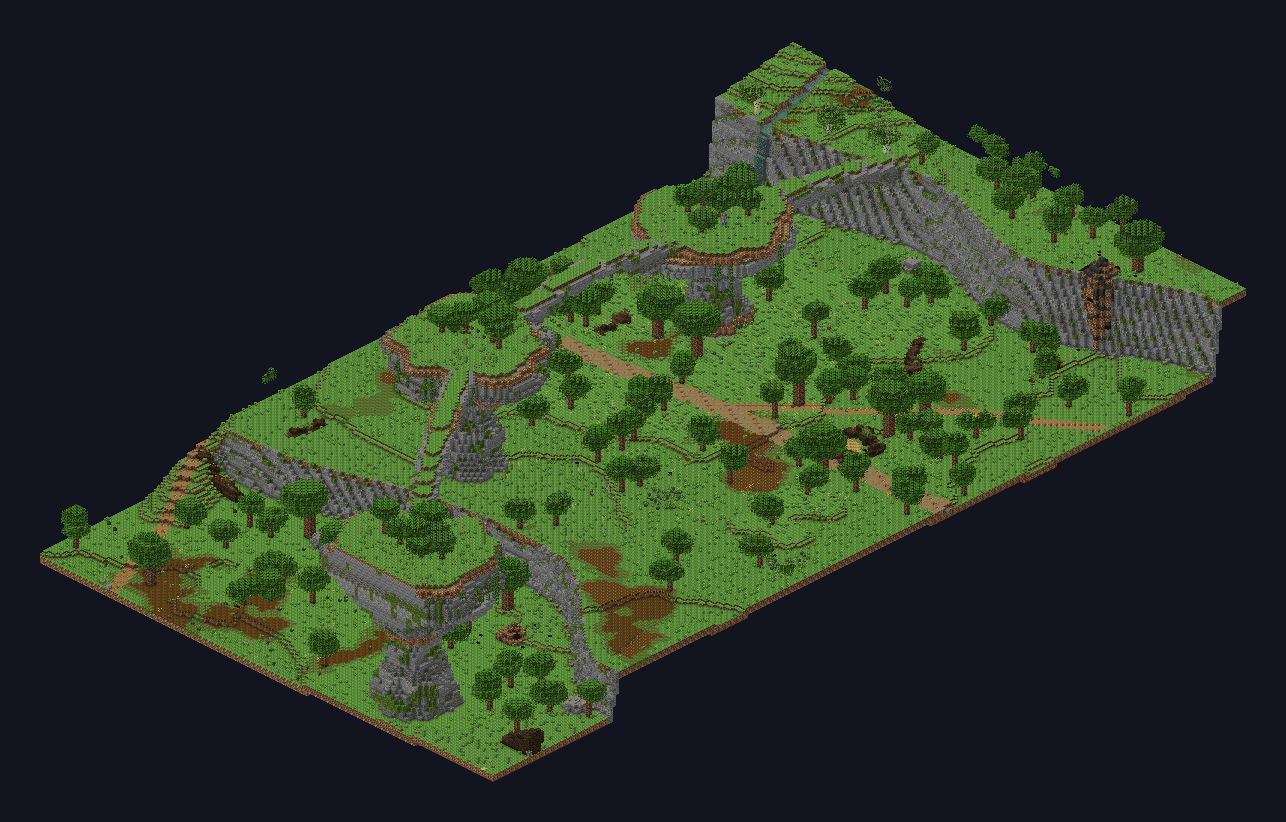
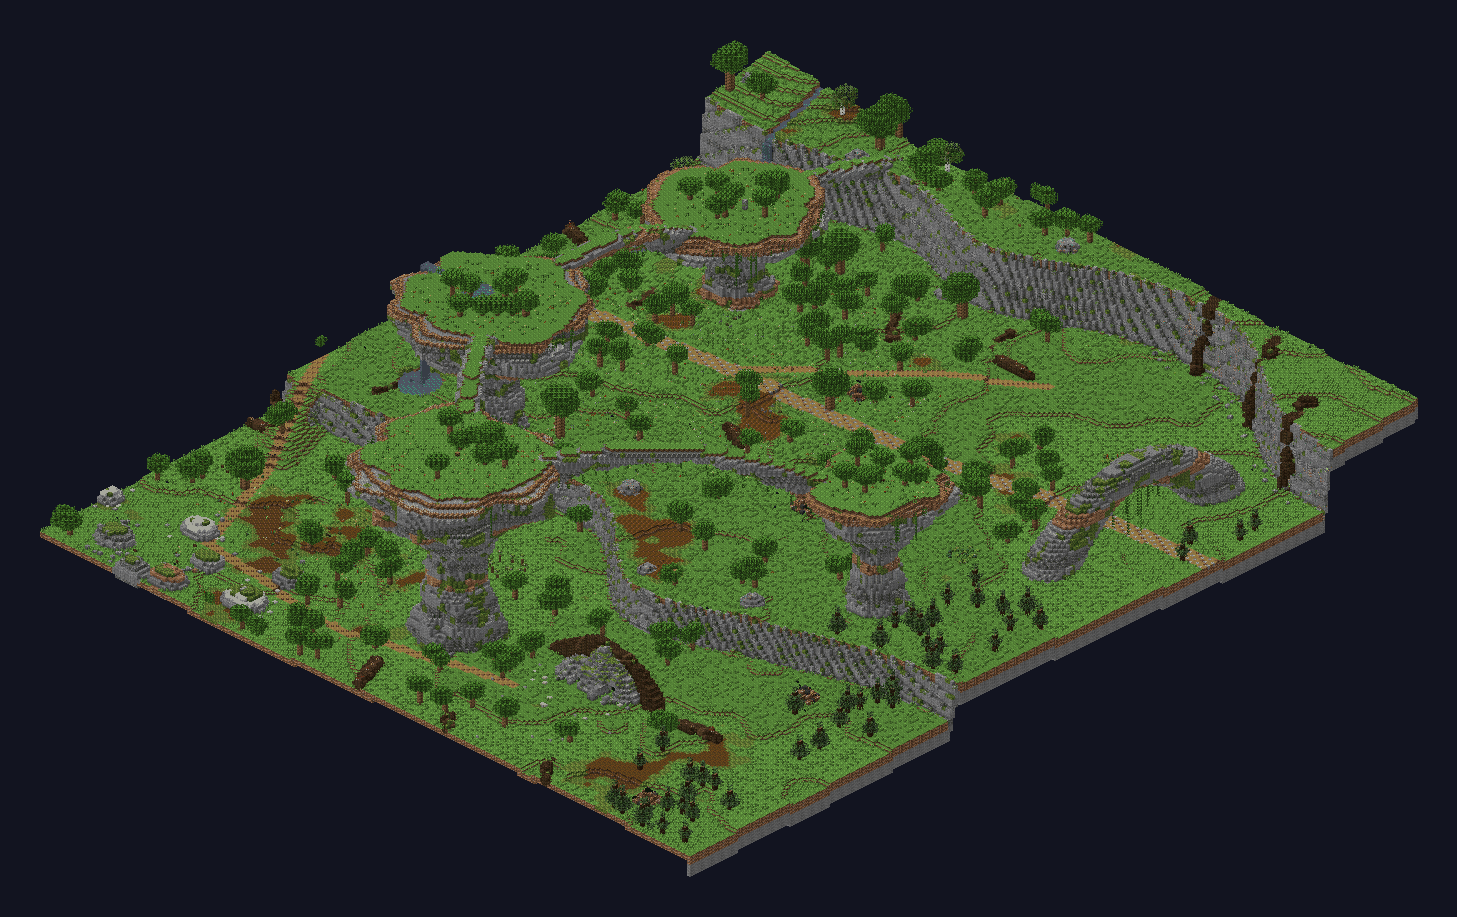
Proposals: field500 - giant Gaur-style pillars, pillar spring waterfall, stone arch gates, needles, tall grass

diff --git a/scripts/world_prototype/field500.py b/scripts/world_prototype/field500.py
@@ -700,34 +700,108 @@ def rock_bridge(p0, p1, rise=3, width=1.6):
                 if p not in w.b and p[1] > at(vx, vz): put(*p, "vine", shape="shut_s")
 
 
-# three chained pillars south of the high plateau; the first is reached by a bridge from the plateau's edge
+# giant pillars stepping up and away from the high plateau's edge; each top is reached by a rock bridge from the one before
 ex, ez = 300, int(B2[300]) - 7
 EDGE_Y = at(ex, ez)
-PILLARS = [(300, 226, EDGE_Y + 9, 9, 18, 3), (304, 312, EDGE_Y + 14, 9.5, 19, 5), (362, 388, EDGE_Y + 11, 10, 21, 1)]
+PILLARS = [(300, 222, EDGE_Y + 10, 11, 24, 3), (300, 320, EDGE_Y + 20, 12, 27, 5),
+           (366, 400, EDGE_Y + 28, 13, 28, 1), (452, 318, EDGE_Y + 22, 9, 20, 7)]
 for (px, pz, ty, rb, rt, sd) in PILLARS:
     mesa(px, pz, ty, rb, rt, sd)
-rock_bridge((ex, EDGE_Y, ez - 2), (PILLARS[0][0], PILLARS[0][2], PILLARS[0][1] - 15), rise=1)
-rock_bridge((PILLARS[0][0], PILLARS[0][2], PILLARS[0][1] + 14), (PILLARS[1][0], PILLARS[1][2], PILLARS[1][1] - 15), rise=4)
-rock_bridge((PILLARS[1][0] + 10, PILLARS[1][2], PILLARS[1][1] + 12), (PILLARS[2][0] - 12, PILLARS[2][2], PILLARS[2][1] - 13), rise=4)
+
+
+def link(a, b, rise):
+    (ax, az, ay, _, art, _), (bx, bz, by, _, brt, _) = a, b
+    d = math.hypot(bx - ax, bz - az); ux, uz = (bx - ax) / d, (bz - az) / d
+    rock_bridge((ax + ux * (art - 5), ay, az + uz * (art - 5)), (bx - ux * (brt - 5), by, bz - uz * (brt - 5)), rise=rise)
+
+
+rock_bridge((ex, EDGE_Y, ez - 2), (PILLARS[0][0], PILLARS[0][2], PILLARS[0][1] - PILLARS[0][4] + 5), rise=1)
+link(PILLARS[0], PILLARS[1], 5)
+link(PILLARS[1], PILLARS[2], 6)
+link(PILLARS[2], PILLARS[3], 7)
 for x in range(ex - 3, ex + 4):                                     # the plateau edge where the first bridge starts
     for z in range(ez - 4, ez + 1):
         UPPER[z, x] = max(UPPER[z, x], at(x, z))
-# rewards on the tops: a lookout cairn, a rare herb, a treasure barrel at the far end
-for (px, pz, ty, rb, rt, sd), what in zip(PILLARS, ("cairn", "herb", "treasure")):
+
+# a spring on the second pillar: a pool on top, spilling over the west rim as a waterfall into a plunge pool below
+P1x, P1z, P1y, _, P1r, _ = PILLARS[1]
+for dx in range(-5, 6):
+    for dz in range(-5, 6):
+        if dx * dx + dz * dz <= 22:
+            put(P1x - 6 + dx, P1y, P1z + dz, "water_still", shape="water"); put(P1x - 6 + dx, P1y - 1, P1z + dz, "gravel")
+            UPPER[P1z + dz, P1x - 6 + dx] = -1
+for xx2 in range(P1x - P1r + 1, P1x - 10):                          # channel to the rim
+    for dz in (-1, 0, 1):
+        put(xx2, P1y, P1z + dz, "water_still", shape="water"); UPPER[P1z + dz, xx2] = -1
+fx = P1x - P1r
+gb = at(fx - 3, P1z)
+for y in range(gb + 1, P1y + 1):                                    # the fall, two blocks wide, spraying wider near the bottom
+    for dz in (-1, 0, 1):
+        put(fx, y, P1z + dz, "water_still")
+        if y < gb + 6: put(fx - 1, y, P1z + dz, "water_still", shape="water")
+for dx in range(-8, 9):                                             # plunge pool
+    for dz in range(-8, 9):
+        if dx * dx + dz * dz <= 50 and 0 <= fx - 2 + dx < B:
+            x2, z2 = fx - 2 + dx, P1z + dz
+            g2 = at(x2, z2)
+            for y in range(g2 - 2, g2 + 2): w.b.pop((x2, y, z2), None)
+            put(x2, g2 - 3, z2, "gravel"); put(x2, g2 - 2, z2, "water_still"); put(x2, g2 - 1, z2, "water_still", shape="water")
+            lake[z2, x2] = True
+CONTENT.append((fx, P1z, "falls"))
+
+# rewards on the tops: a lookout cairn, a rare herb patch by the spring, a treasure at the far end, a high camp
+for (px, pz, ty, rb, rt, sd), what in zip(PILLARS, ("cairn", "herb", "treasure", "camp")):
     if what == "cairn":
         for y in range(ty + 1, ty + 4): put(px + 3, y, pz, R.choice(["mossy_cobblestone", "cobblestone"]))
         put(px + 3, ty + 4, pz, "lantern", shape="lantern")
     elif what == "herb":
-        for _ in range(8):
-            put(px + R.randint(-3, 3), ty + 1, pz + R.randint(-3, 3), "firefly_bush", shape="plant")
-    else:
+        for _ in range(10):
+            put(px + R.randint(2, 8), ty + 1, pz + R.randint(-5, 5), "firefly_bush", shape="plant")
+    elif what == "treasure":
         put(px, ty + 1, pz, "barrel_top", "barrel_side"); put(px + 1, ty + 1, pz, "lantern", shape="lantern")
+    else:
+        put(px, ty + 1, pz, "campfire_log_lit", shape="fire")
+        for (dx, dz) in ((-2, 0), (2, 0), (0, 2)): put(px + dx, ty + 1, pz + dz, "spruce_log", "spruce_log", shape="slab")
     CONTENT.append((px, pz, "pillar"))
+spawn(PILLARS[2][0], PILLARS[2][1], 16, 5, "lime_wool", "sprite")
 
-# thin scenery spires on the plains (Gaur-style), out of the way of roads and places
-for (sx, sz, h2, r2) in ((160, 455, 34, 3.5), (450, 300, 30, 3.0), (40, 360, 26, 3.0), (470, 470, 32, 3.5)):
-    if anyway[sz, sx] < 10 or used[sz, sx]: continue
-    mesa(sx, sz, at(sx, sz) + h2, r2 * 1.4, r2 * .7, 2, needle=True)   # a rock needle: scenery, nothing to stand on
+
+# great stone arches over the road where it enters and leaves the zone: scenery gates (rounded rock, nothing to stand on)
+def stone_arch(p0, p1, height, r):
+    pts = bez(p0, ((p0[0] + p1[0]) / 2, max(p0[1], p1[1]) + height, (p0[2] + p1[2]) / 2), p1, 30)
+    for i2, (a, b) in enumerate(zip(pts, pts[1:])):
+        f = i2 / (len(pts) - 1)
+        rr = r * (1.5 - .6 * math.sin(math.pi * f))
+        tube(a, b, rr, rr, mat=None, follow=True)
+    for (x, y, z) in pts:
+        for dx in range(-int(r) - 2, int(r) + 3):
+            for dz in range(-int(r) - 2, int(r) + 3):
+                for dy in range(-int(r) - 2, int(r) + 3):
+                    v = w.b.get((int(round(x)) + dx, int(round(y)) + dy, int(round(z)) + dz))
+                    if v and v[1] in ("dark_oak_log", "mangrove_log", "stripped_dark_oak_log"):
+                        p = (int(round(x)) + dx, int(round(y)) + dy, int(round(z)) + dz)
+                        mat = ROCK[(p[1] // 3) % len(ROCK)]
+                        if noise3(*p, 161, 2.5) > .68: mat = "moss_block"
+                        put(*p, mat)
+    for (x, y, z) in pts:
+        mark(int(x) - 14, int(z) - 14, int(x) + 14, int(z) + 14)
+    for (x, y, z) in pts[6:-6:2]:
+        for _ in range(2):
+            vx, vz = int(round(x)) + R.randint(-2, 2), int(round(z)) + R.randint(-2, 2)
+            for k2 in range(1, R.randint(3, 14)):
+                p = (vx, int(y) - int(r) - k2, vz)
+                if p in w.b or p[1] <= at(vx, vz): break
+                put(*p, "vine", shape="shut_s")
+
+
+stone_arch((22, at(22, 425) - 1, 425), (40, at(40, 474) - 1, 474), 34, 4.5)                  # entering from the harbor
+stone_arch((470, at(470, 200) - 1, 200), (470, at(470, 268) - 1, 268), 40, 5)                # leaving east
+
+# rock needles in clusters on the plains: scenery that frames the views
+for (sx, sz, h2, r2) in ((150, 470, 48, 5), (172, 452, 36, 3.5), (130, 460, 28, 3), (40, 355, 44, 4.5), (60, 340, 30, 3.5),
+                         (470, 470, 52, 5.5), (448, 460, 34, 4), (460, 120, 40, 4), (20, 120, 36, 4), (235, 470, 30, 3.5)):
+    if not (5 <= sx < B - 5 and 5 <= sz < B - 5) or anyway[sz, sx] < 9 or used[sz, sx] or lake[sz, sx]: continue
+    mesa(sx, sz, at(sx, sz) + h2, r2 * 1.5, r2 * .8, 2, needle=True)
 
 
 # ---------------- main places count as content ----------------
@@ -861,7 +935,7 @@ scatter_plants(70, 280, 70, .05, ["fern", "short_grass", "brown_mushroom", "leaf
 scatter_plants(250, 250, 240, .006, ["poppy", "dandelion", "short_grass", "short_grass"])
 for z in range(2, B - 2):
     for x in range(2, B - 2):
-        if anyway[z, x] < 3 or lake[z, x] or stream[z, x] or R.random() > .16: continue
+        if anyway[z, x] < 3 or lake[z, x] or stream[z, x] or R.random() > .34: continue
         y = at(x, z) + 1
         if (x, y, z) in w.b: continue
         t2 = w.b.get((x, y - 1, z))
@@ -945,7 +1019,7 @@ for i2, (col, t2) in enumerate((((236, 214, 150), "道"), ((128, 124, 118), "崖
     dd.text((40, 16 + i2 * 20), t2, fill=(255, 255, 255), font=ff)
 mapimg.save("field500-check.png")
 
-LABELS = [((304, 312), "岩の柱と岩の橋（高台から渡れる）", (150, 210, 255)), (TREE, "大樹（根の洞＝ダンジョン入口）", (140, 230, 140)), (BOSS, "ワールドボス：根の主", (255, 90, 90)),
+LABELS = [((352, 300), "巨大な岩の柱と岩の橋・柱の滝（高台から渡れる）", (150, 210, 255)), ((60, 470), "岩の大アーチ（入口）", (220, 210, 190)), ((455, 290), "岩の大アーチ（出口）", (150, 210, 255)), (TREE, "大樹（根の洞＝ダンジョン入口）", (140, 230, 140)), (BOSS, "ワールドボス：根の主", (255, 90, 90)),
           (FUNGAL, "狩り場：キノコの窪地", (255, 150, 120)), (WOLF, "狩り場：狼の根穴", (255, 150, 120)),
           (TOWER, "狩り場＋展望：根に飲まれた石塔", (255, 150, 120)), (REST, "休憩所（転移石）", (255, 255, 255)),
           ((455, 175), "採鉱：根の割れた崖", (200, 200, 220)), (BOULDERS, "採石：岩の原", (200, 200, 200)),

diff --git a/scripts/world_prototype/field500_render.py b/scripts/world_prototype/field500_render.py
@@ -8,7 +8,7 @@ b, hi, LABELS = pickle.load(open("field500.pkl", "rb"))
 SHOTS = {"tree": (190, 100, 290, 205, 10), "boss": (352, 52, 438, 138, 10), "fungal": (40, 190, 150, 285, 10),
          "wolf": (380, 355, 450, 430, 13), "tower": (60, 45, 112, 100, 14), "cliff": (420, 120, 499, 190, 12),
          "boulders": (235, 390, 335, 465, 10), "meadow": (270, 195, 395, 305, 8), "pond": (55, 385, 165, 460, 10),
-         "rest": (165, 235, 235, 295, 14), "ramp": (120, 300, 220, 380, 9), "falls": (230, 140, 300, 220, 11), "gap": (140, 300, 230, 360, 12), "sap": (150, 190, 186, 226, 18), "arch": (240, 200, 300, 270, 12), "pillars": (250, 150, 400, 400, 6), "pillar1": (270, 160, 340, 250, 10)}
+         "rest": (165, 235, 235, 295, 14), "ramp": (120, 300, 220, 380, 9), "falls": (230, 140, 300, 220, 11), "gap": (140, 300, 230, 360, 12), "sap": (150, 190, 186, 226, 18), "arch": (240, 200, 300, 270, 12), "pillars": (240, 150, 499, 440, 5), "pillar1": (250, 280, 340, 360, 10), "gate": (0, 400, 80, 499, 9), "egate": (430, 180, 499, 290, 9)}
 
 
 def render(sub, W):
